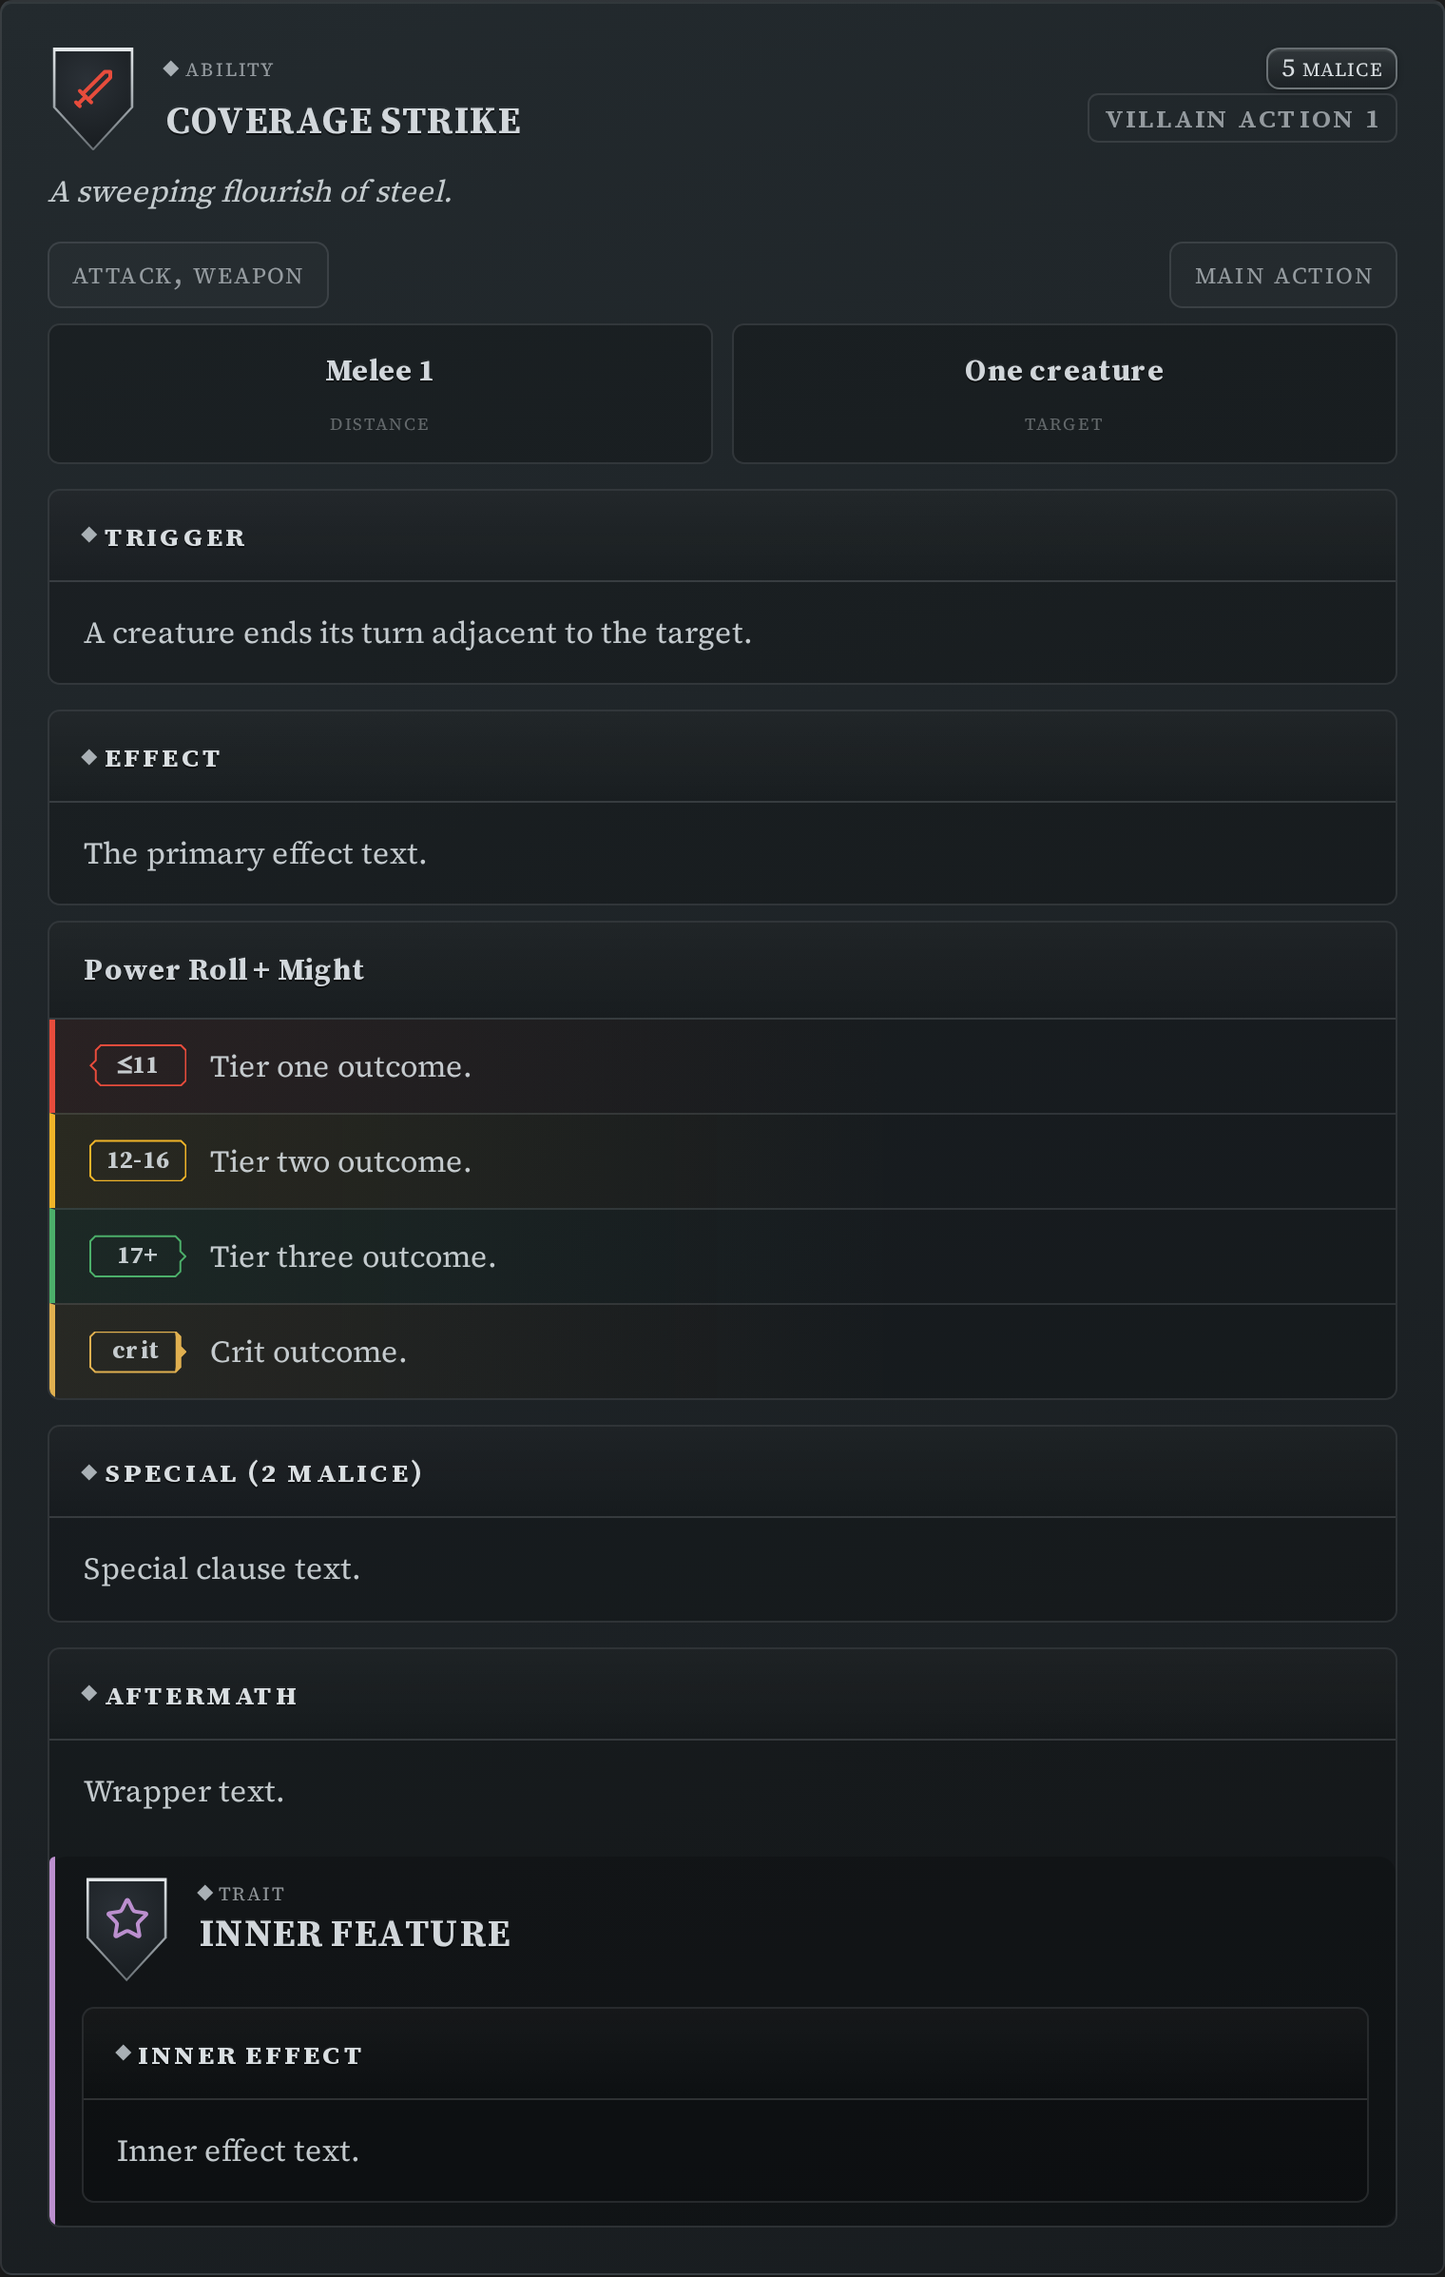
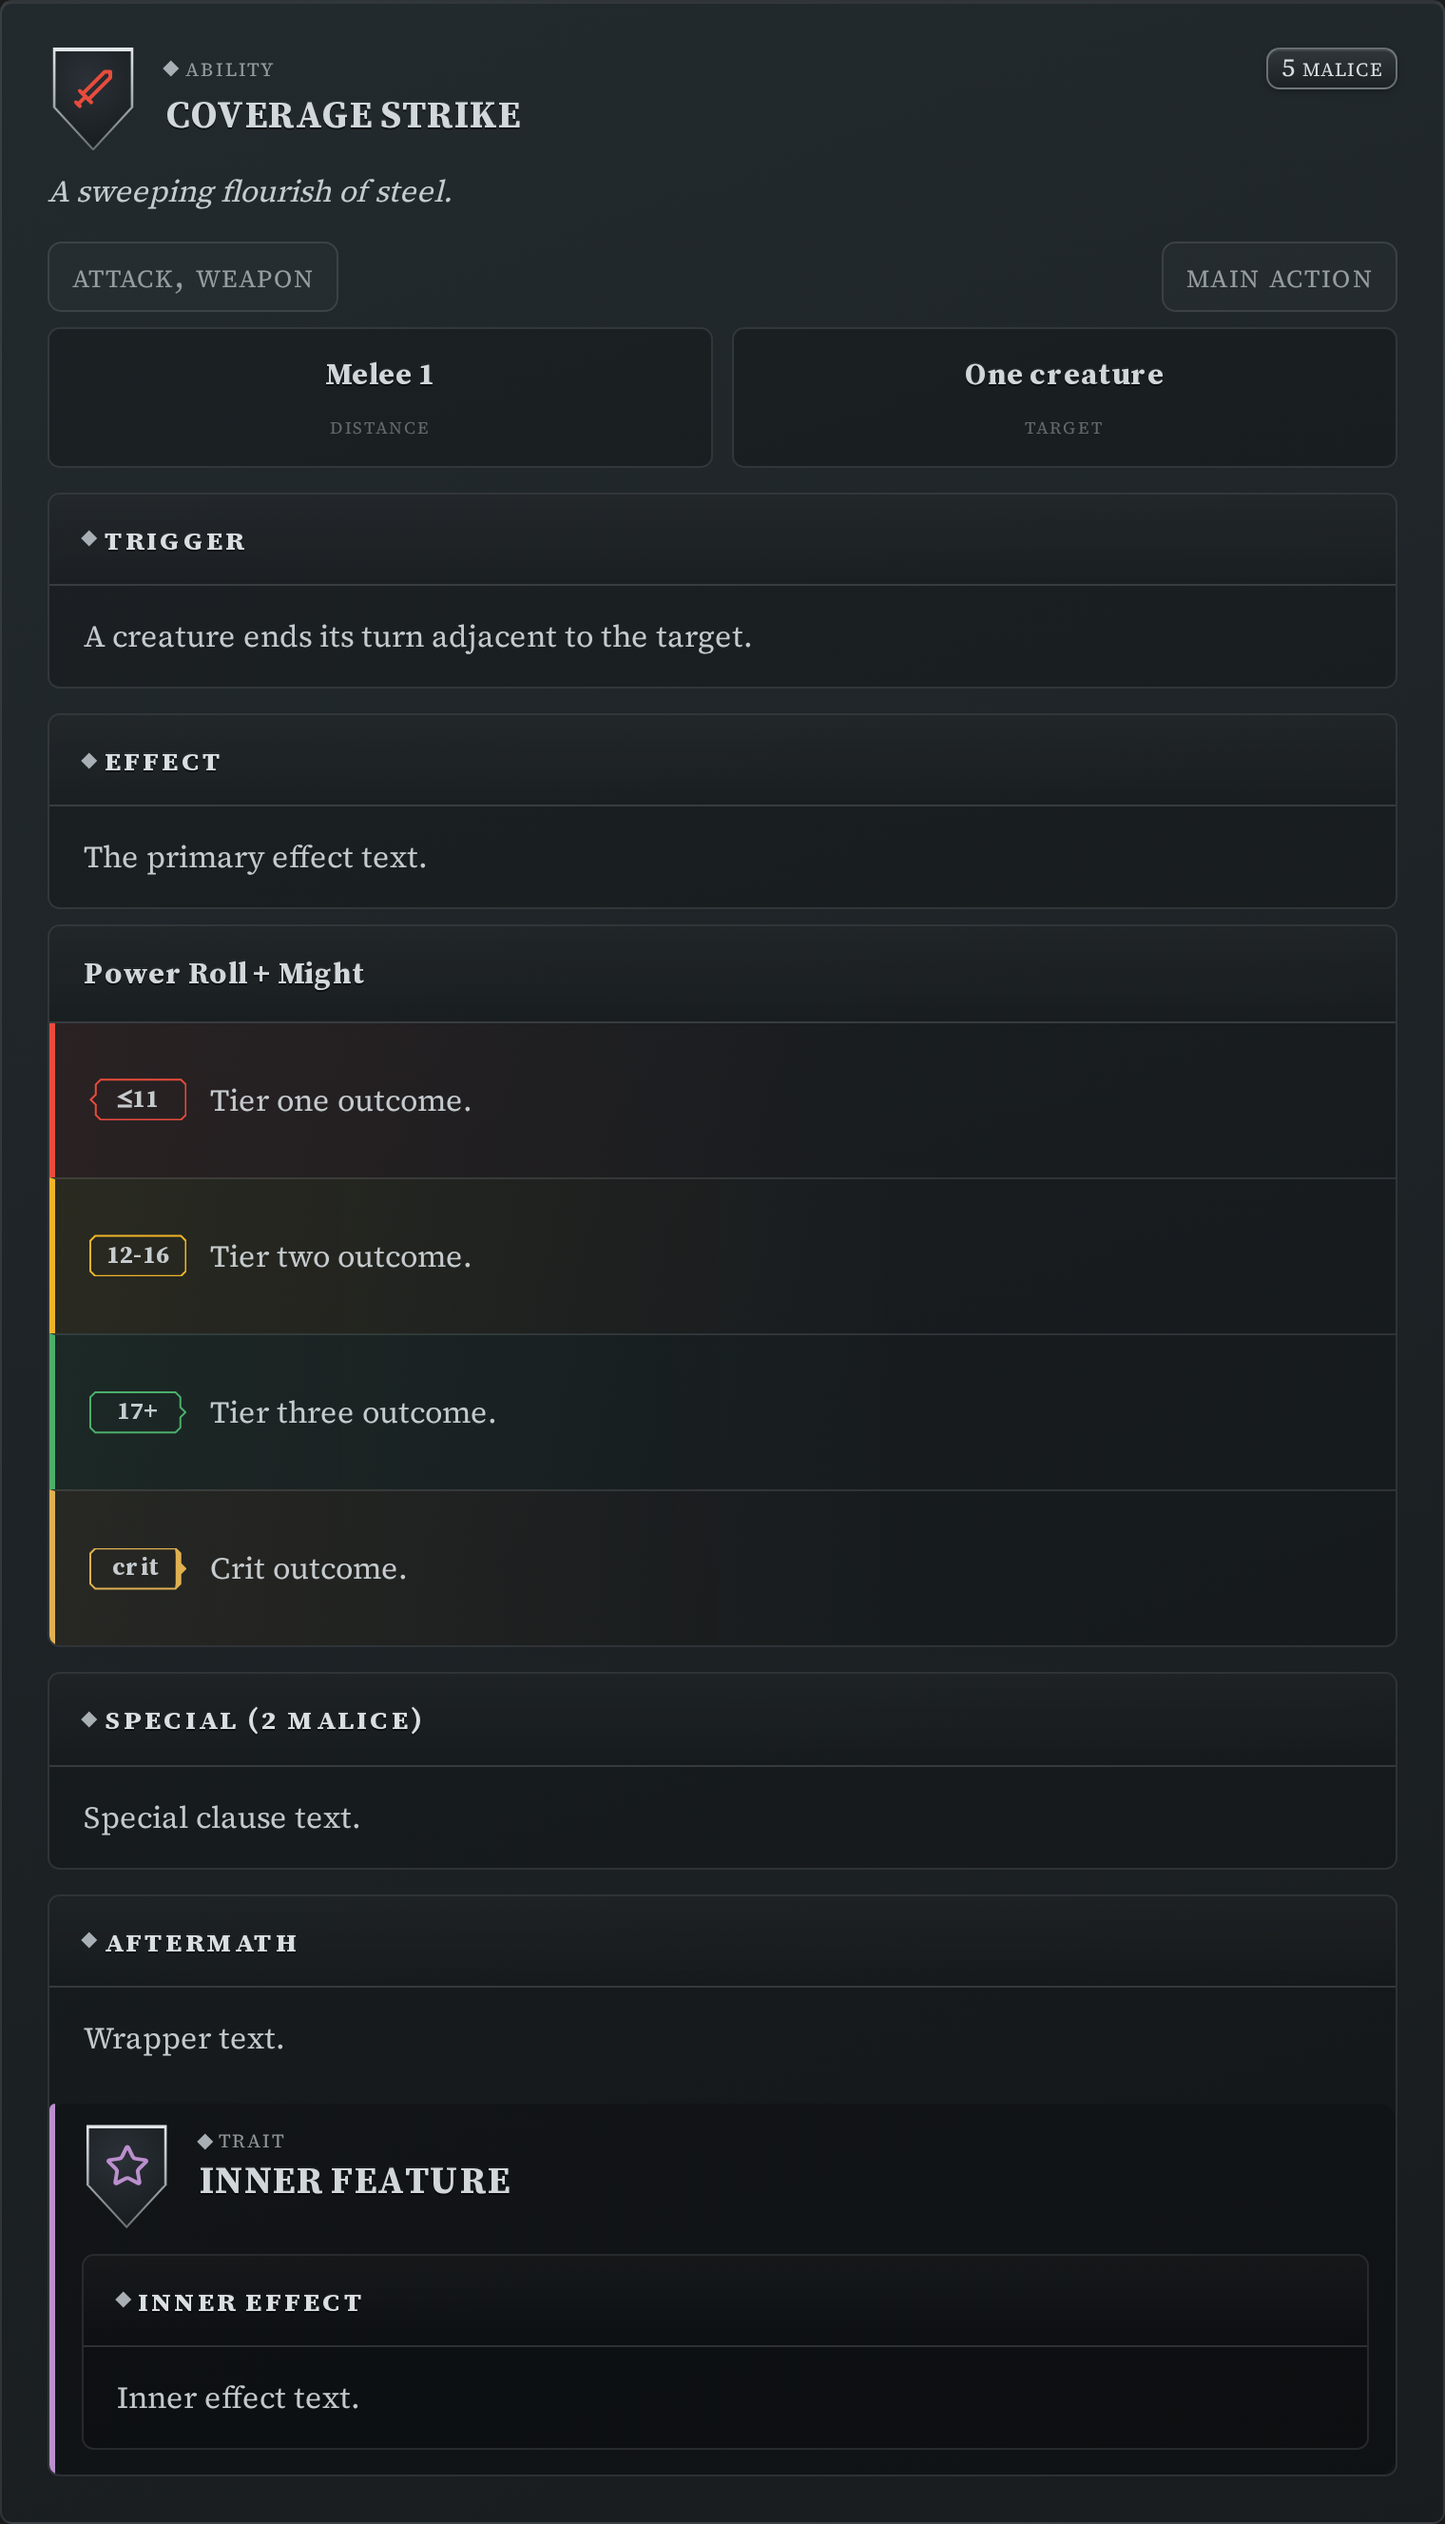
fix(feature): SC-236 r4 — fix round: false corpus/fixture comment claims, stale docs image
Independent review (sc236-r3-review.md) findings, all comment/doc/evidence only — none
move frozen bytes:

- renderFeature.ts:126-128 (MEDIUM-1): the actionTypeOf doc comment falsely claimed no
  real corpus ability carries `ability_type` at all. The corpus has 831 occurrences
  (Signature Ability 461, Signature 260, Triggered 106, Free-strike 4), every one paired
  with a real usage line. Reworded to "no villain-shaped ability_type", with the
  conclusion (this rung never decides for shipped content) preserved — that part was
  true.
- entry.ts:267-273 (MEDIUM-2): the featureVillain rationale falsely claimed no fixture
  anywhere else exercises actionTypeOf's ability_type rung. statblock/example.yaml,
  human-bandit-chief.yaml and SettingsPreview.ts all do, and statblock.test.ts pins it.
  Restored the accurate reason (featureVillain is the only STANDALONE villain feature
  card) and pointed the cost-shape remark at statblockVillainCorpus instead of
  featureVillain's own shape.
- docs/Media/feature.png (MEDIUM-3): regenerated via `npm run docs-shots --
  --only=feature.png` — the docs image still showed the "VILLAIN ACTION 1" chip this
  ticket removes. Verified only this file changed (git status clean otherwise) and the
  new image matches example.yaml (no chip, "5 MALICE" only).
- entry.ts:238-240 (LOW-1): reworded — the "hand-copy silently drifted" claim described a
  drift that never happened at base (the literal was in sync); now says what a hand-copy
[…]

diff --git a/visual-harness/entry.ts b/visual-harness/entry.ts
@@ -235,22 +235,24 @@ i0: "Thinks you're after the ring; becomes hostile"
 // renderFeature.ts's `isSpend` gate only fires when an effect's RAW `cost` field starts
 // with "Spend" (Draw Steel's "Spend Heroic Resource"/"Spend a Recovery" grammar, RR §—),
 // and no fixture anywhere uses that wording. SC-236: DERIVED from featureDefault (same
-// convention as featureCollapsed below) rather than hand-copied — a hand-copy silently
-// drifted out of sync with example.yaml once (this fixture kept `ability_type: Villain
-// Action 1` after SC-236 round 2 deleted that line from the real file). The Special
-// effect's cost is the only field that differs from the single-sourced default (D9-
-// elsewhere: the authoring example, which stays byte-identical and freeze-pinned); the
-// guard throws at harness load if example.yaml's shape ever stops containing the line
-// this replaces, so a future edit can't silently leave featureSpend stale again.
-const FEATURE_SPEND_FROM = '    cost: 2 Malice\n';
-const FEATURE_SPEND_TO = '    cost: Spend Heroic Resource\n';
+// convention as featureCollapsed below) rather than hand-copied — a hand-copy would have
+// silently kept the `ability_type: Villain Action 1` line SC-236 round 2 deleted from the
+// real file. The Special effect's cost is the only field that differs from the
+// single-sourced default (D9-elsewhere: the authoring example, which stays byte-identical
+// and freeze-pinned); the guard throws at harness load if example.yaml's shape ever stops
+// containing the line this replaces, so a future edit can't silently leave featureSpend
+// stale.
+// Line-ending agnostic (the lookahead matches an optional trailing \r before the line's
+// own end, so it never consumes/replaces the line terminator itself) — a CRLF checkout
+// (`.gitattributes` normalizes on commit, but a local working tree can still be CRLF)
+// must not make this guard throw on an otherwise-unchanged file.
+const FEATURE_SPEND_FROM = /^ {4}cost: 2 Malice(?=\r?$)/m;
+const FEATURE_SPEND_TO = '    cost: Spend Heroic Resource';
 const featureSpend = (() => {
 	const derived = featureDefault.replace(FEATURE_SPEND_FROM, FEATURE_SPEND_TO);
 	if (derived === featureDefault) {
 		throw new Error(
-			`featureSpend: expected featureDefault (example.yaml) to contain ${JSON.stringify(
-				FEATURE_SPEND_FROM,
-			)} to replace with ${JSON.stringify(
+			`featureSpend: expected featureDefault (example.yaml) to contain a line matching ${FEATURE_SPEND_FROM} to replace with ${JSON.stringify(
 				FEATURE_SPEND_TO,
 			)} — example.yaml's shape changed; update this derivation.`,
 		);
@@ -264,17 +266,19 @@ const featureSpend = (() => {
 // carried `ability_type: Villain Action 1` alongside `usage: Main action`, and a real
 // usage line always wins, so it rendered — correctly — as a main-action card while still
 // claiming (via the chip) to be a villain action. SC-236 round 2 deleted that
-// `ability_type` line from the D9 example, so it no longer carries any villain
-// descriptor at all — but no fixture anywhere else exercises `actionTypeOf`'s
-// `ability_type` ladder rung (real corpus villain actions signal via `cost`, not
-// `ability_type` — see `feature-villain`'s own shape below), so this harness-local
-// literal (SC-108's pattern, `featureblockAdvancement` above) stays as the only way to
-// golden-shot that fallback path: the same shape MINUS `usage`, so `actionTypeOf` falls
-// through to the real `ability_type` ladder and resolves 'villain' — the standalone
-// villain card (spine-less crest + eyebrow tint, no bar, per D3), independent of D9's
-// single-sourced example. New shot names (`feature-villain--*`) cannot collide with a
-// frozen name (`sha256sum -c` only checks names the baseline lists), so this fixture is
-// invisible to the freeze check by construction.
+// `ability_type` line from the D9 example. This harness-local literal (SC-108's pattern,
+// `featureblockAdvancement` above) is the same shape MINUS `usage`, so `actionTypeOf`
+// falls through to the real `ability_type` ladder and resolves 'villain' — it stays
+// because it is the only STANDALONE villain feature card (spine-less crest + eyebrow
+// tint, no bar, per D3). Other fixtures also carry a villain-shaped `ability_type` and
+// exercise this same rung (`src/elements/statblock/example.yaml`,
+// `test/fixtures/statblock/human-bandit-chief.yaml`, `SettingsPreview.ts`), but only
+// nested inside a statblock, never as a standalone feature card — this fixture is what
+// that shape looks like on its own. Real corpus villain actions signal via `cost`, not
+// `ability_type` — see `statblockVillainCorpus` above for that shape. New shot names
+// (`feature-villain--*`) cannot collide with a frozen name (`sha256sum -c` only checks
+// names the baseline lists), so this fixture is invisible to the freeze check by
+// construction.
 const featureVillain = `type: feature
 feature_type: ability
 name: Rally the Line
@@ -291,8 +295,8 @@ effects:
 // SC-107: the sheet's `.dse-hero__grid` had no dedicated fixture exercising a SPARSE
 // region next to a fuller one — `default` (heroDefault, src/elements/hero/example.yaml)
 // is a level-3 hero with a condition already on it, so its Conditions region is never the
-// short one. This harness-local variant (same convention as featureSpend/featureVillain
-// above, not an edit to the frozen D9 example) drops to a single skill and zero active
+// short one. This harness-local variant (same convention as featureVillain above, not an
+// edit to the frozen D9 example) drops to a single skill and zero active
 // conditions — a level-1 hero fresh out of session zero — so the Conditions region renders
 // only its header + an empty-state line while Skills renders one chip: the shortest
 // possible content next to another short-but-not-identical region, in the same grid row.
@@ -776,8 +780,8 @@ malice:
 // anywhere rendered before this round, so the review's own HIGH-1 finding (this block's own
 // re-grounding anchor used to silently restore a 1em margin `.dse-md-inline > ul`'s
 // deliberate `margin-block: 0` design zeroed out) had nothing to be shot against. Harness-
-// local literal (same convention as `featureSpend`/`featureVillain` above), not an edit to
-// the frozen D9 example.
+// local literal (same convention as `featureVillain` above), not an edit to the frozen D9
+// example.
 const featureEffectList = `type: feature
 feature_type: ability
 name: Coverage Strike

diff --git a/src/elements/feature/renderFeature.ts b/src/elements/feature/renderFeature.ts
@@ -124,10 +124,12 @@ export interface RenderFeatureOptions {
  *
  * SC-102 fix round (H-1): what it falls through TO is `cost` first (the shipped
  * steel-etl shape — see isVillainCost above), then `ability_type` (hand-authored notes —
- * no real corpus ability carries `ability_type` at all, so this rung only ever fires for
- * fixtures/hand-authored blocks; see visual-harness's `feature-villain` fixture and
- * src/elements/hero/view.ts's `abilityActionLabel`). Precedence is otherwise untouched: a
- * REAL usage still wins over both — pinned by test/dom/elements/feature.test.ts's inline-
+ * no real corpus ability carries a VILLAIN-SHAPED `ability_type` (corpus values are
+ * Signature / Signature Ability / Triggered / Free-strike), and every corpus feature that
+ * carries one also has a real usage line — so this rung never decides for shipped content,
+ * only for fixtures/hand-authored blocks; see visual-harness's `feature-villain` fixture
+ * and src/elements/hero/view.ts's `abilityActionLabel`). Precedence is otherwise untouched:
+ * a REAL usage still wins over both — pinned by test/dom/elements/feature.test.ts's inline-
  * config `SC-102/SC-236` precedence test (SC-236 round 2 deleted the stray
  * `ability_type: Villain Action 1` line that used to make `feature/example.yaml` itself
  * demonstrate this precedence; that file is now a plain main-action example with no
